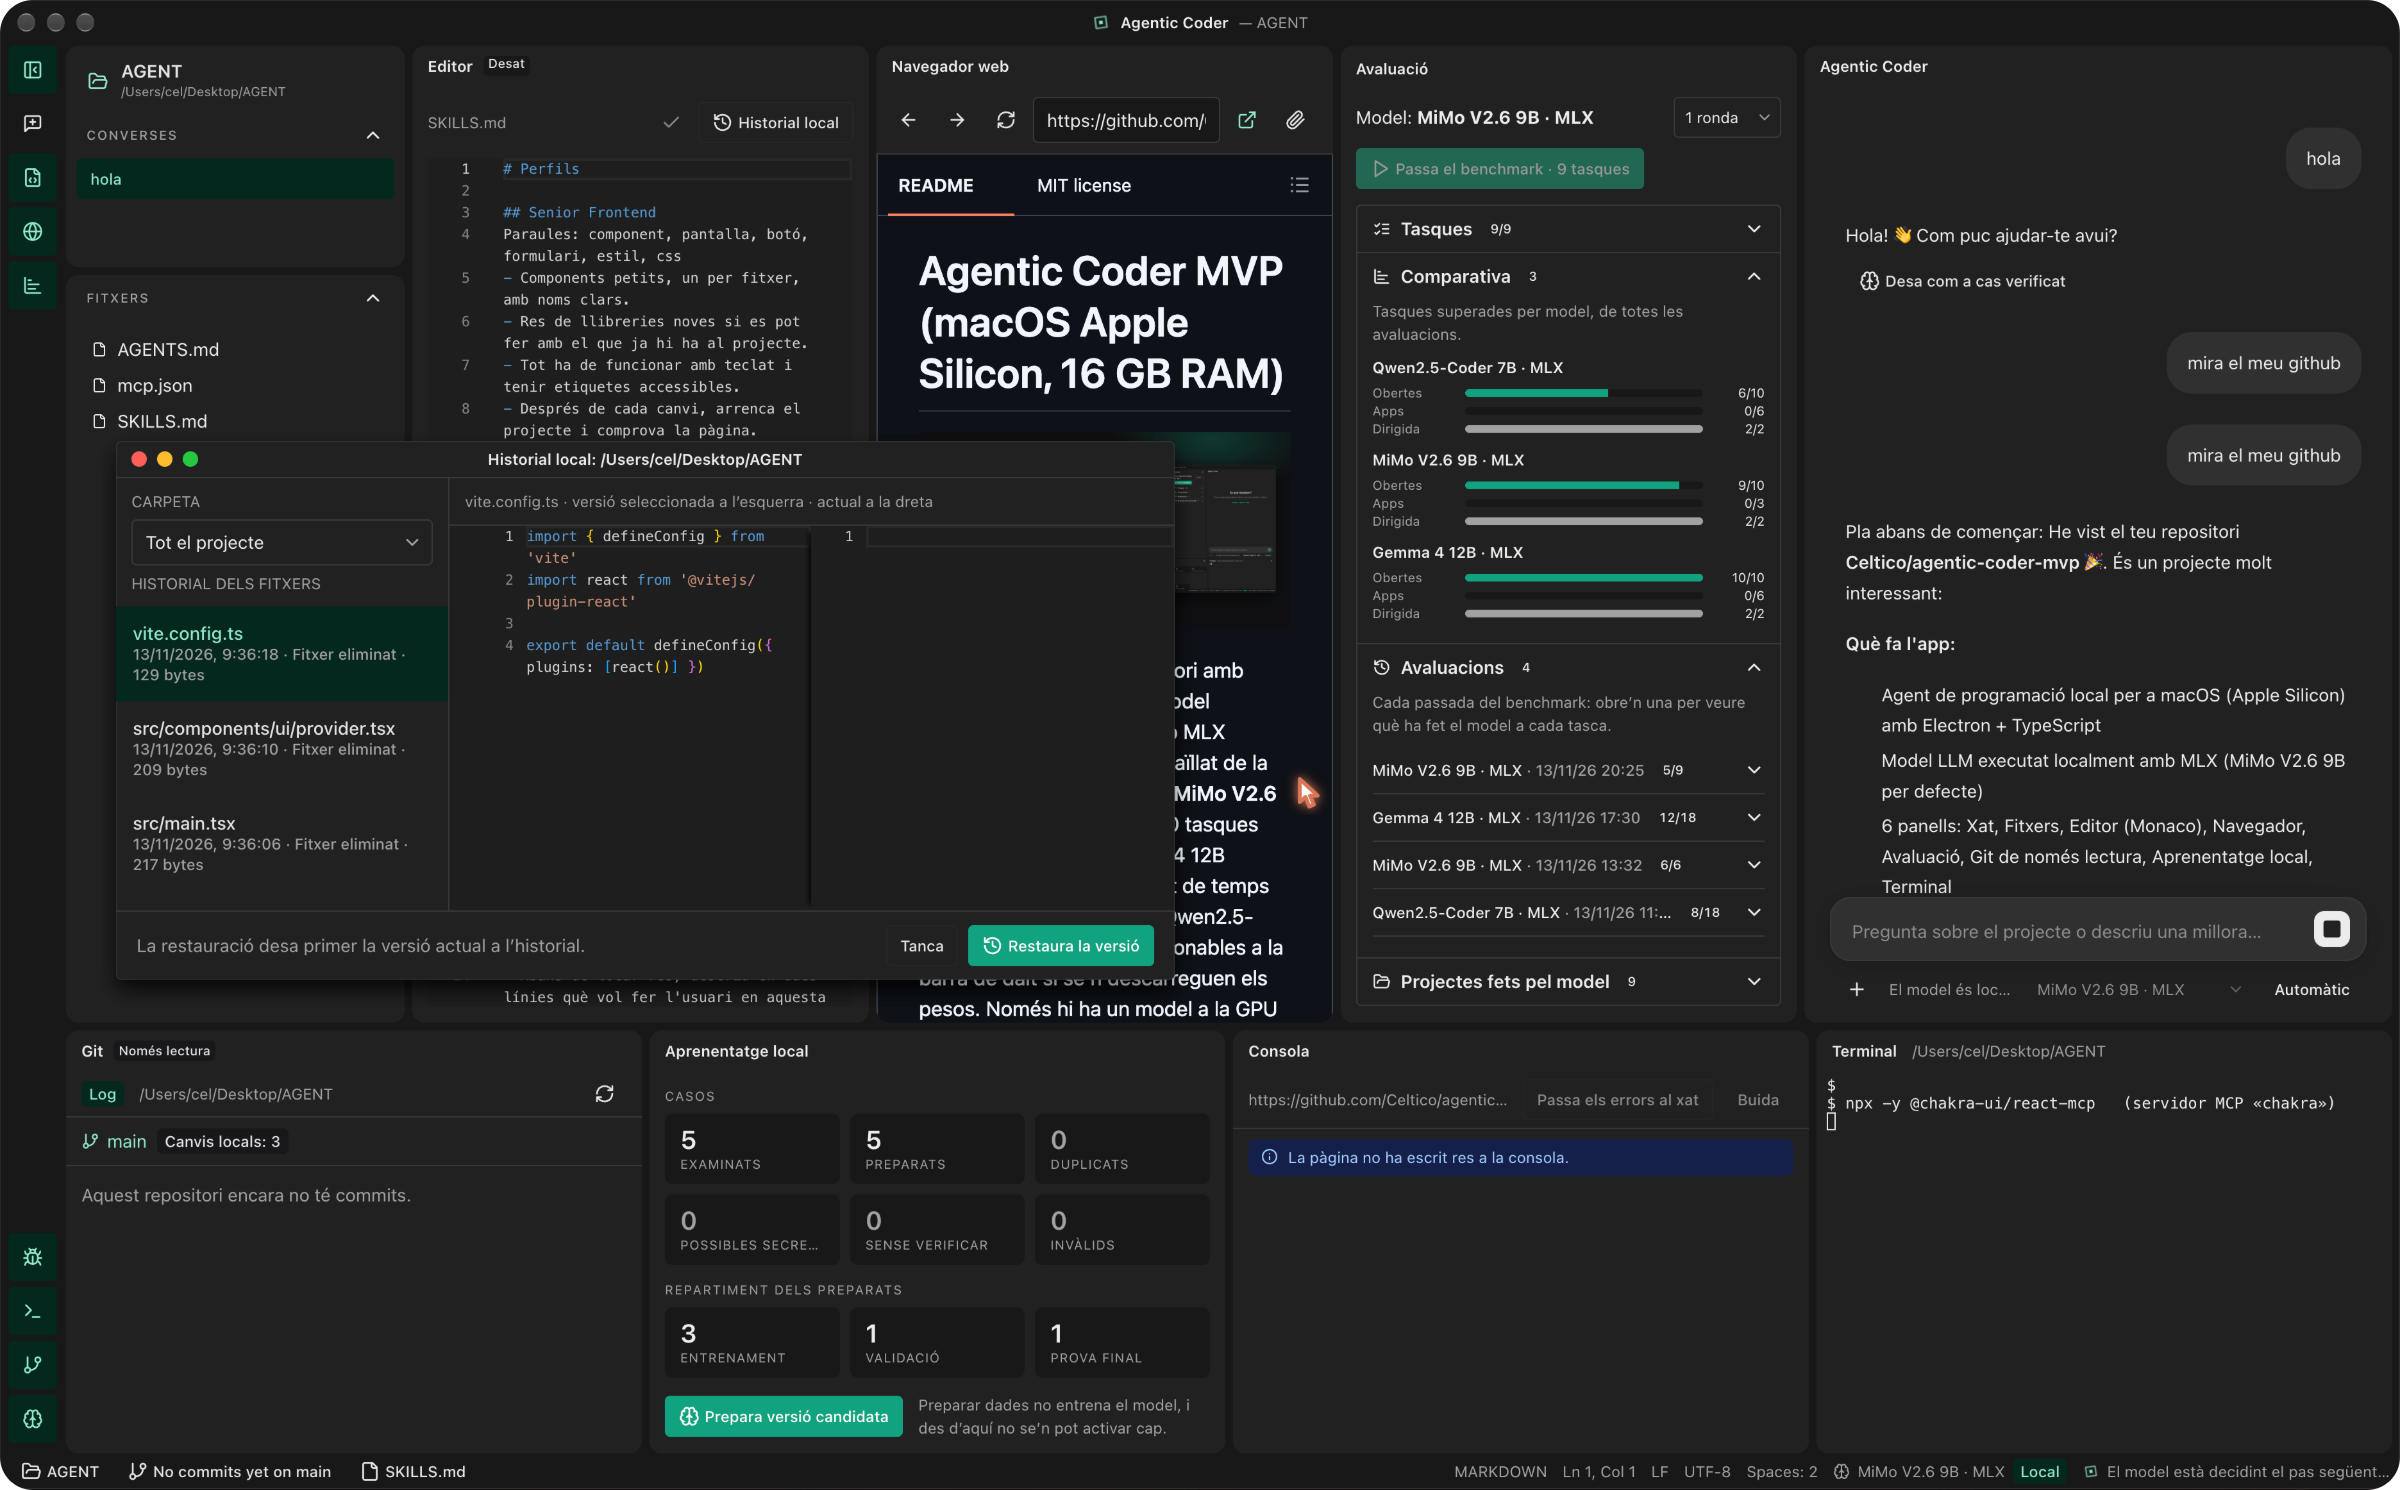
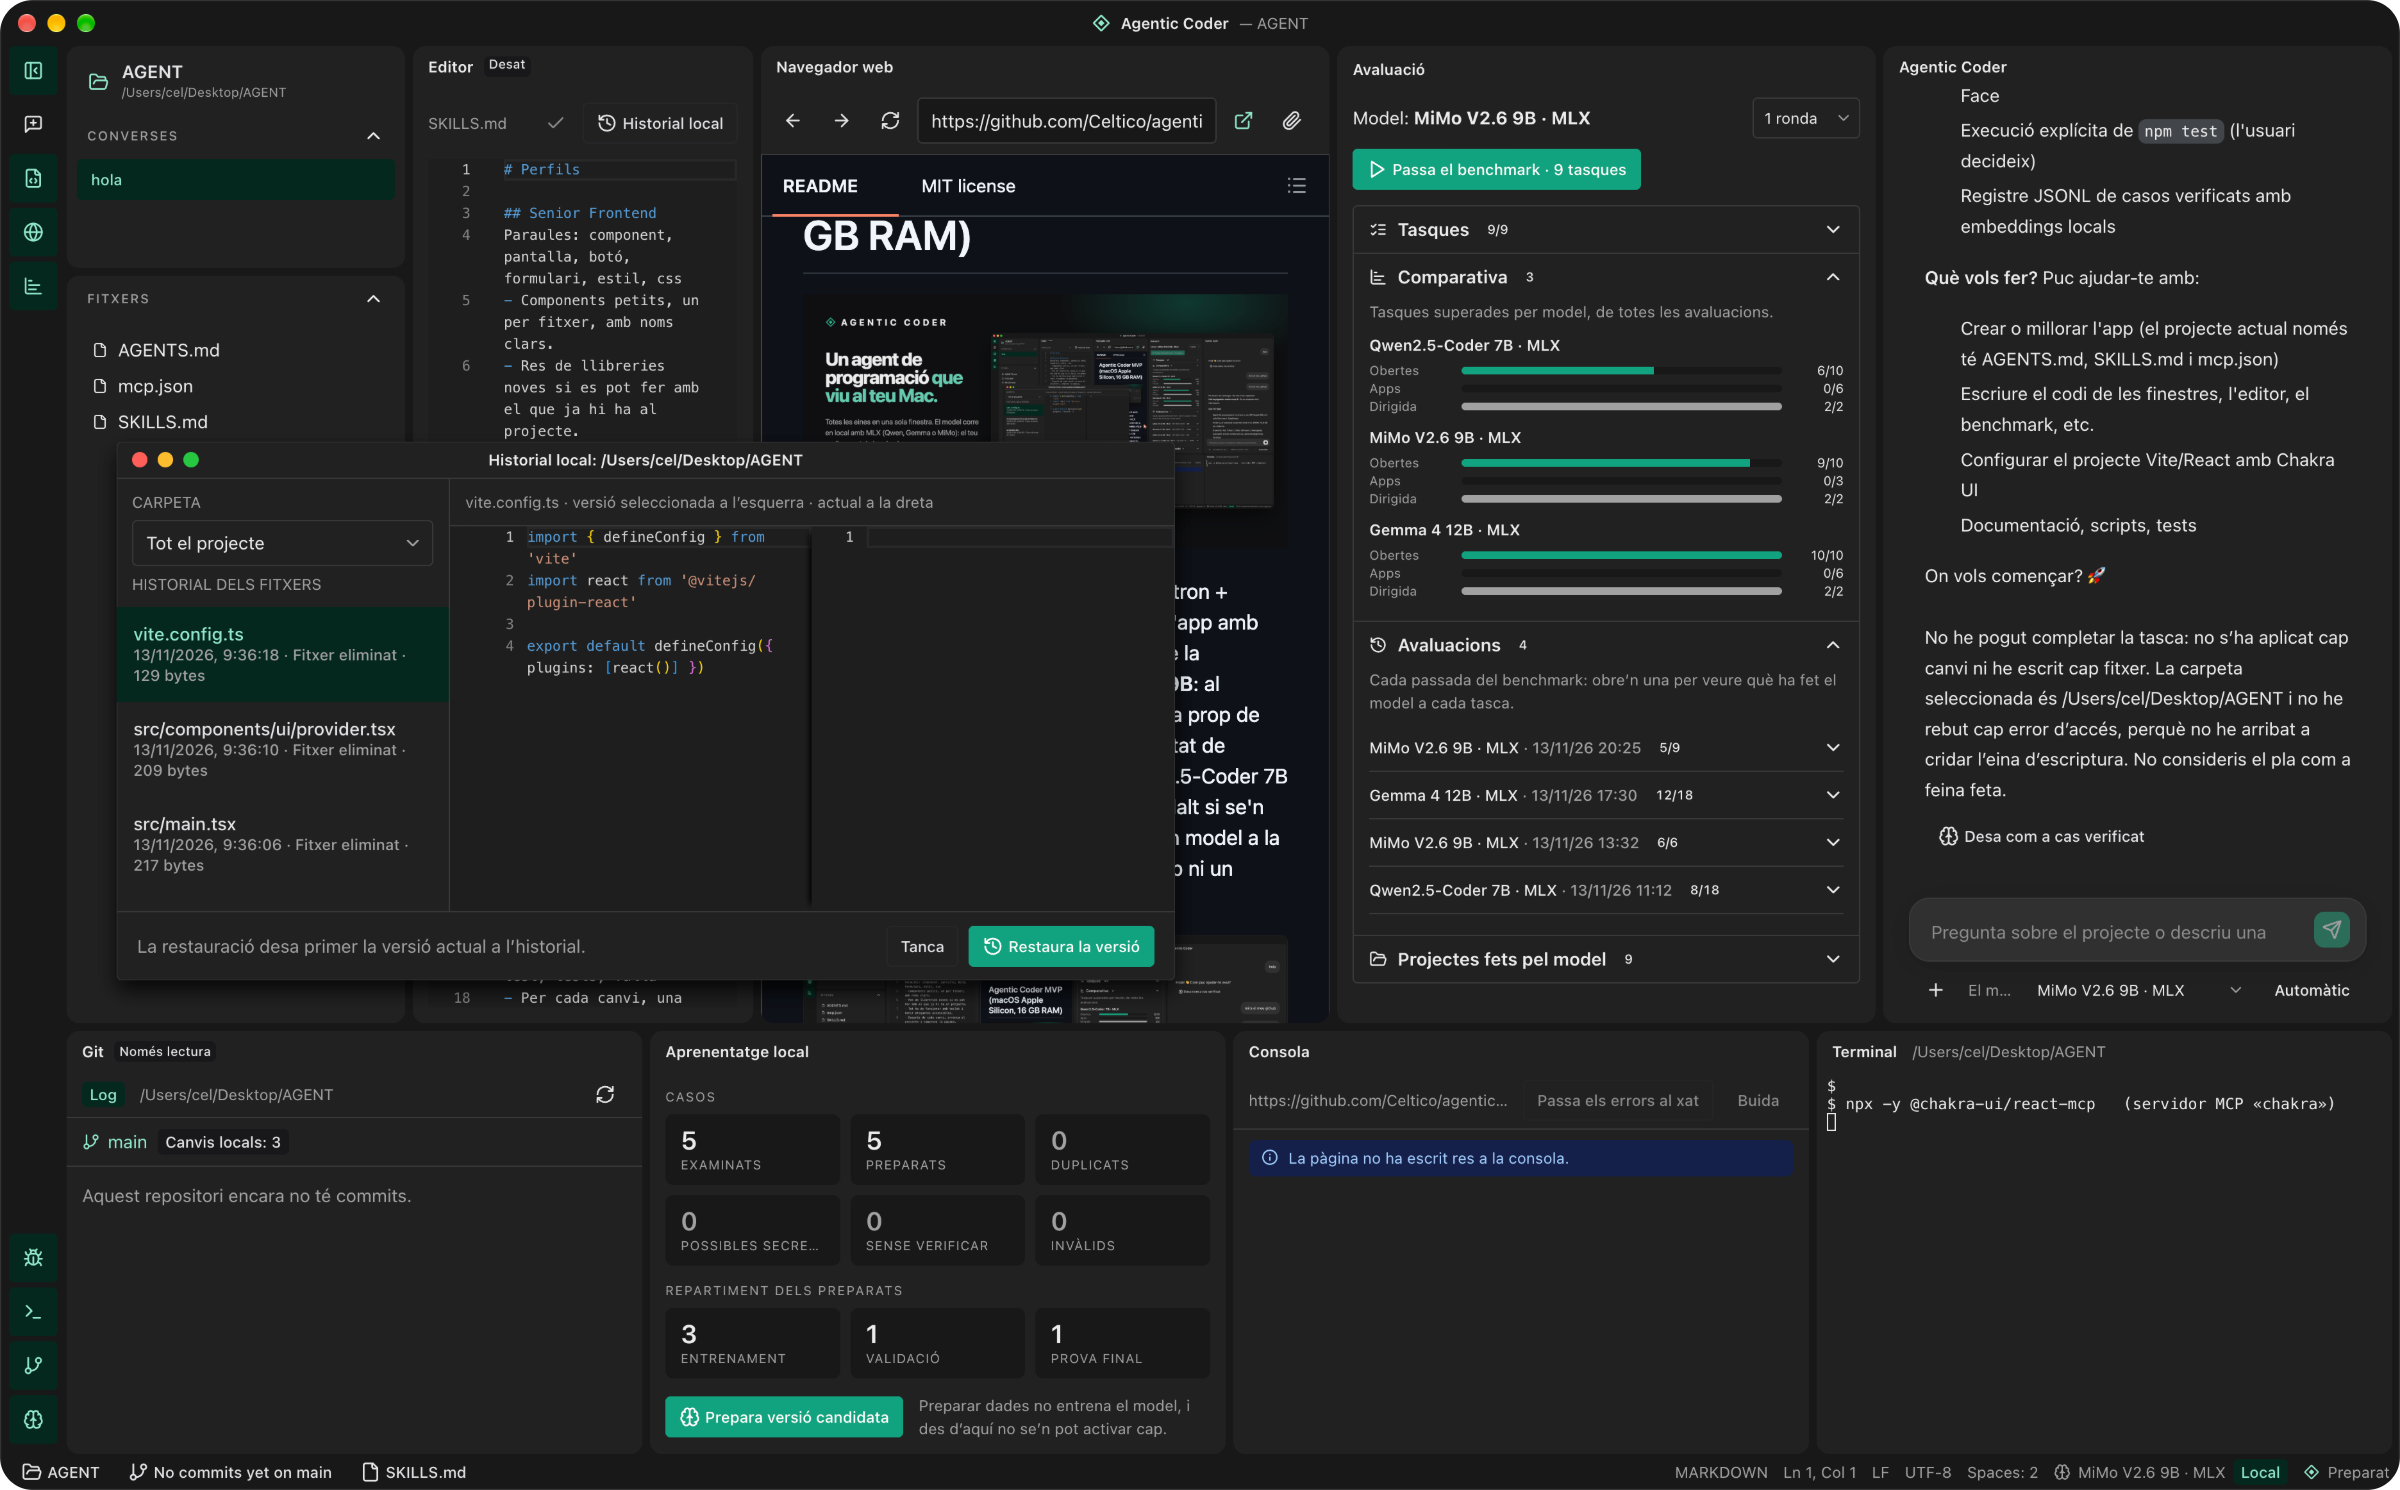
Cover and README capture from the app in front
A new capture with the app as the active window (its own coloured
window buttons, so none are painted over), MiMo's summary in the chat
and the cover in the browser. The labels fit in two rows.

diff --git a/docs/cover/cover.html b/docs/cover/cover.html
@@ -13,13 +13,10 @@
   h1 { margin: 110px 0 0; font-size: 92px; line-height: .98; letter-spacing: -.035em; font-weight: 800; }
   h1 em { font-style: normal; color: #65c9ad; }
   p { margin: 60px 0 0; font-size: 36px; line-height: 1.5; color: #a1a1a1; max-width: 780px; }
-  .chips { position: absolute; left: 110px; top: 850px; width: 800px; display: flex; flex-wrap: wrap; gap: 18px; }
-  .chip { padding: 12px 26px; border: 2px solid #3a3a3a; border-radius: 40px; color: #ececec; font-size: 28px; font-weight: 600; }
+  .chips { position: absolute; left: 110px; top: 830px; width: 820px; display: flex; flex-wrap: wrap; gap: 18px; }
+  .chip { padding: 10px 22px; border: 2px solid #3a3a3a; border-radius: 40px; color: #ececec; font-size: 26px; font-weight: 600; }
   .url { position: absolute; left: 110px; top: 1080px; font-size: 38px; font-weight: 600; color: #65c9ad; }
   .shot { position: absolute; left: 930px; top: 192px; width: 1400px; border-radius: 19px; overflow: hidden; box-shadow: 0 40px 120px rgba(0, 0, 0, .6); background: #171717; }
-  /* The macOS traffic lights, in colour, over the grey ones of the capture (the window was not in front). */
-  .shot .lights { position: absolute; left: 0; top: 0; }
-  .shot .lights i { position: absolute; width: 10.5px; height: 10.5px; margin: -5.25px 0 0 -5.25px; border-radius: 50%; top: 13.5px; box-shadow: inset 0 0 0 .5px rgba(0, 0, 0, .25); }
   .shot img { display: block; width: 100%; }
 </style>
 </head>
@@ -32,6 +29,6 @@
   </div>
   <div class="chips"><span class="chip">Xat</span><span class="chip">Fitxers</span><span class="chip">Editor</span><span class="chip">Navegador</span><span class="chip">Consola</span><span class="chip">Avaluació</span><span class="chip">Git</span><span class="chip">Aprenentatge</span><span class="chip">Terminal</span></div>
   <div class="url">github.com/Celtico/agentic-coder-mvp</div>
-  <div class="shot"><img src="app.png" alt=""><div class="lights"><i style="left:15.7px;background:#ff5f57"></i><i style="left:33.3px;background:#febc2e"></i><i style="left:50.9px;background:#28c840"></i></div></div>
+  <div class="shot"><img src="app.png" alt=""></div>
 </body>
 </html>
